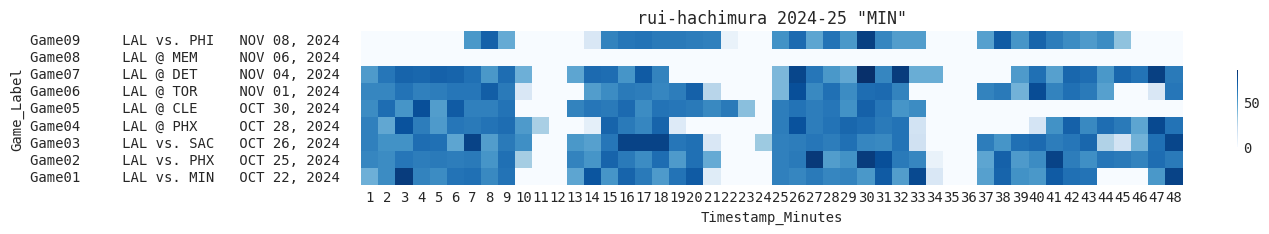
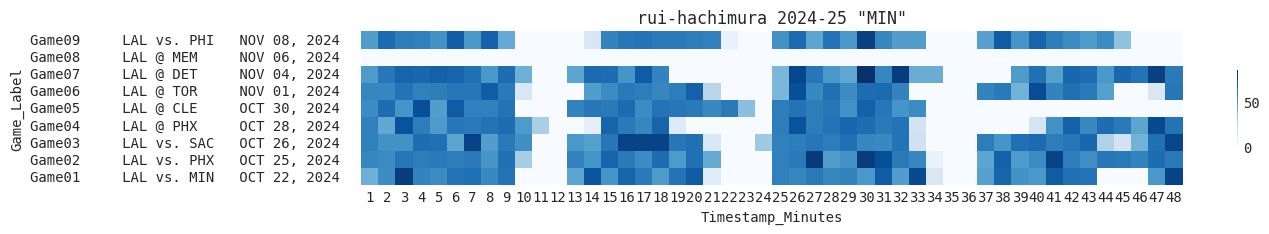
Update the result.

Changed region(s): [[0.2766, 0.1197, 0.3688, 0.2094]]

diff --git a/2024-25.md b/2024-25.md
@@ -1,5 +1,5 @@
 ## 活躍状況 2024-25 シーズン
-> Last Update: 2024-11-09 15:10:09
+> Last Update: 2024-11-09 21:35:25
 - (注)オーバータイム時の情報は対象外です。
 
 ### 八村塁 Rui Hachimura
